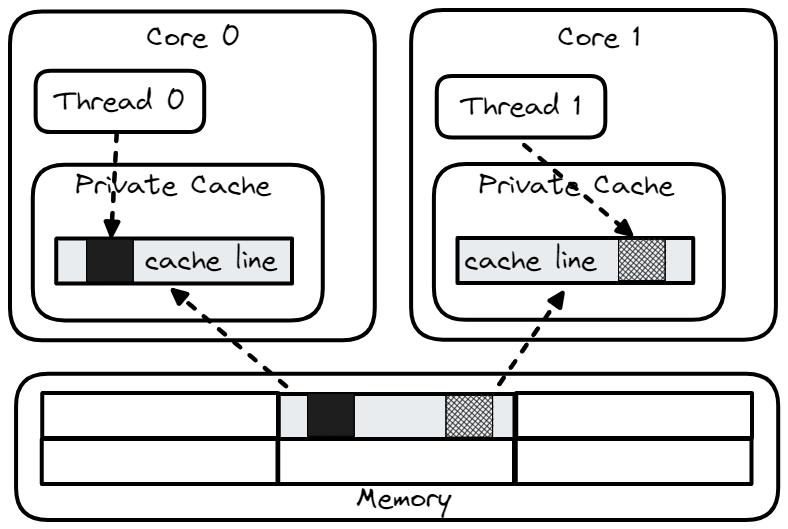
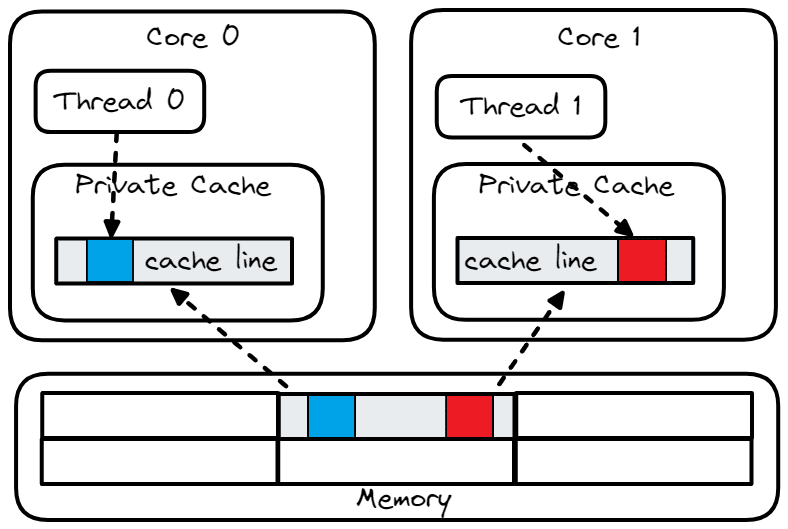
[Fixing TODOs] part6

diff --git a/chapters/15-Epilog/15-0 Epilog.md b/chapters/15-Epilog/15-0 Epilog.md
@@ -4,13 +4,13 @@
 
 Thanks for reading through the whole book. I hope you enjoyed it and found it useful. I would be even happier if the book would help you solve a real-world problem. In such a case, I would consider it a success and proof that my efforts were not wasted. Before you continue with your endeavors, let me briefly highlight the essential points of the book and give you final recommendations:
 
-[TODO][FIX_BEFORE_REVIEW]: update from chapter 1
-
-* HW performance is not increasing as rapidly as it used to a few decades ago. Performance tuning is becoming more critical than it has been for the last 40 years. It will be one of the key drivers for performance gains in the near future. 
-* Software doesn't have optimal performance by default. Certain limitations exist that prevent applications from reaching their full performance potential. Both HW and SW components have such limitations.
+* Single-threaded CPU performance is not increasing as rapidly as it used to a few decades ago. When it's no longer the case that each HW generation provides a significant performance boost, developers should start optimizing the code of their software.
+* Modern software is massively inefficient. There are big optimization opportunities to reduce carbon emissions and make better user experience. People absolutely hate using slow software, especially when their productivity goes down because of it. Not all fast software is world-class, but all world-class software is fast. Performance is _the_ killer feature.
+* For many years performance engineering was a nerdy niche. But now it is mainstream as software vendors have realized the impact that their poorly optimized software has on their bottom line. Performance tuning is more critical than it has been for the last 40 years. It will be one of the key drivers for performance gains in the near future.
+* The importance of low-level performance tuning should not be underestimated, even if it's just a 1% improvement. The cumulative effect of these small improvements is what makes the difference.
 * There is a famous quote by Donald Knuth: "Premature optimization is the root of all evil". But the opposite is often true as well. Postponed performance engineering work may be too late and cause as much evil as premature optimization. Do not neglect performance aspects when designing your future products. Save your project by integrating automated performance benchmarking into your CI/CD pipeline. *Measure early, measure often.*
 * Performance of modern CPUs is not deterministic and depends on many factors. Meaningful performance analysis should account for noise and use statistical methods to analyze performance measurements.
-* Knowledge of the CPU microarchitecture might become handy in understanding the results of experiments you conduct. However, don't solely rely on this knowledge when you make a specific change in your code. Your mental model can never be as accurate as the actual design of the CPU internals. Predicting the performance of a particular piece of code is nearly impossible. *Always measure!*
+* Knowledge of the CPU microarchitecture is required to reach peak performance. However, your mental model can never be as accurate as the actual microarchitecture design of a CPU. So don't solely rely on your intuition when you make a specific change in your code. Predicting the performance of a particular piece of code is nearly impossible. *Always measure!*
 * Performance engineering is hard because there are no predetermined steps you should follow, no algorithm. Engineers need to tackle problems from different angles. Know performance analysis methods and tools (both HW and SW) that are available to you. I strongly suggest embracing the TMA methodology and Roofline performance model if they are available on your platform. They will help you to steer your work in the right direction. 
 * Nowadays, there is a variety of performance analysis tools available on each platform. Spend some time to learn how to use them, what they can do, and how to interpret the results they provide.
 * When you identify the performance-limiting factor of your application, consider you are more than halfway to solving the problem. Based on my experience, the fix is often easier than finding the root cause of the problem.

diff --git a/chapters/9-Optimizing-Computations/9-1 Data Dependencies.md b/chapters/9-Optimizing-Computations/9-1 Data Dependencies.md
@@ -1,7 +1,5 @@
 ## Data Dependencies
 
-[TODO][FIX_BEFORE_REVIEW]: Watch out for dependencies through memory (store -> load -> store -> ... in the same location).
-
 When a program statement refers to the data of a preceding statement, we say that there is a *data dependency* between the two statements. Sometimes people also use the terms _dependency chain_ or *data flow dependencies*. The example we are most familiar with is shown in Figure @fig:LinkedListChasing. To access node `N+1`, we should first dereference the pointer `N->next`. For the loop on the right, this is a *recurrent* data dependency, meaning it spans multiple iterations of the loop. Basically, traversing a linked list is one very long dependency chain.
 
 ![Data dependency while traversing a linked list.](../../img/computation-opts/LinkedListChasing.png){#fig:LinkedListChasing width=80%}
@@ -110,9 +108,11 @@ To measure the impact of the change, we ran "before" and "after" versions and ob
 
 With a few additional changes, you can generalize this solution to have as many dependency chains as you want. For the M1 processor, the measurements show that having 2 dependency chains is enough to get very close to the hardware limit. Having more than 2 chains brings a negligible performance improvement. However, there is a trend that CPUs are getting wider, i.e., they become increasingly capable of running multiple dependency chains in parallel. That means future processors could benefit from having more than 2 dependency chains. As always you should measure and find the sweet spot for the platforms your code will be running on.
 
-Sometimes it's not enough just to break dependency chains. Imagine for a minute that instead of a simple RNG, you have a very complicated cryptographic algorithm that is `10,000` instructions long. So, instead of a very short 6-instruction dependency chain, we now have `10,000` instructions standing on the critical path. You immediately do the same change we did above anticipating a nice 2x speedup. Only to see a slightly better performance. What's going on?
+Sometimes it's not enough just to break dependency chains. Imagine that instead of a simple RNG, you have a very complicated cryptographic algorithm that is `10,000` instructions long. So, instead of a very short 6-instruction dependency chain, we now have `10,000` instructions standing on the critical path. You immediately do the same change we did above anticipating a nice 2x speedup. Only to see a slightly better performance. What's going on?
 
 The problem here is that the CPU simply cannot "see" the second dependency chain to start executing it. Recall from Chapter 3, that the Reservation Station (RS) capacity is not enough to see `10,000` instructions ahead as it is much smaller than that. So, the CPU will not be able to overlap the execution of two dependency chains. To fix this, we need to *interleave* those two dependency chains. With this approach, you need to change the code so that the RNG object will generate two numbers simultaneously, with *every* statement within the function `XorShift32::gen` duplicated and interleaved. Even if a compiler inlines all the code and can clearly see both chains, it doesn't automatically interleave them, so you need to watch out for this. Another limitation you may hit while doing this is register pressure. Running multiple dependency chains in parallel requires keeping more state and thus more registers. If you run out of registers, the compiler will start spilling them to the stack, which will slow down the program.
+
+It is worth to mention that data dependencies can also be created through memory. For example, if you write to memory location `M` on loop iteration `N` and read from this location on iteration `N+1`, there will be effectively a dependency chain. The stored value may be forwarded to a load, but they cannot be reordered and executed in parallel.
 
 As a closing thought, we would like to emphasize the importance of finding that critical dependency chain. It is not always easy, but it is crucial to know what stands on the critical path in your loop, function, or other block of code. Otherwise, you may find yourself fixing secondary issues that barely make a difference.
 

diff --git a/chapters/9-Optimizing-Computations/9-3 Loop Optimizations.md b/chapters/9-Optimizing-Computations/9-3 Loop Optimizations.md
@@ -39,12 +39,9 @@ for (int i = 0; i < N; ++i)             for (; i+1 < N; i+=2) {
                                           a[i] = b[i] * c[i];
 ~~~~~~~~~~~~~~~~~~~~~~~~~~~~~~~~~~~~~~~~~~~~~~~~~
 
-The primary benefit of loop unrolling is to perform more computations per iteration. At the end of each iteration, the index value must be incremented, and tested, and the control is branched back to the top of the loop if it has more iterations to process. This work is commonly referred to as "loop overhead" or "loop tax", and it can be reduced. For example, by unrolling the loop in [@lst:Unrol] by a factor of 2, we reduce the number of executed compare and branch instructions by half.
+The primary benefit of loop unrolling is to perform more computations per iteration. At the end of each iteration, the index value must be incremented and tested, then we go back to the top of the loop if it has more iterations to process. This work is commonly referred to as "loop overhead" or "loop tax", and it can be reduced with loop unrolling. For example, by unrolling the loop in [@lst:Unrol] by a factor of 2, we reduce the number of executed compare and branch instructions by half.
 
-[TODO][FIX_BEFORE_REVIEW]: describe loop remainder
-[TODO][FIX_BEFORE_REVIEW]: unrolling too much could have negative consequences due to code bloat
-
-Loop unrolling is a well-known optimization; still, many people are confused about it and try to unroll loops manually. We suggest that developers should not unroll any loop by hand except in cases when you need to break loop-carry dependencies as in [@lst:DepChain]. First, because compilers are very good at doing this and usually do loop unrolling quite optimally. The second reason is that processors have an "embedded unroller" thanks to their out-of-order speculative execution engine (see [@sec:uarch]). While the processor is waiting for long-latency instructions from the first iteration to finish (e.g. loads, divisions, microcoded instructions, long dependency chains), it will speculatively start executing instructions from the second iteration and only wait on loop-carried dependencies. This spans multiple iterations ahead, effectively unrolling the loop in the instruction Reorder Buffer (ROB).
+Loop unrolling is a well-known optimization; still, many people are confused about it and try to unroll loops manually. We suggest that developers should not unroll any loop by hand except in cases when you need to break loop-carry dependencies as in [@lst:DepChain]. First, because compilers are very good at doing this and usually are able to choose optimal unrolling factor. The second reason is that processors have an "embedded unroller" thanks to their out-of-order speculative execution engine (see [@sec:uarch]). While the processor is waiting for long-latency instructions from the first iteration to finish (e.g. loads, divisions, microcoded instructions, long dependency chains), it will speculatively start executing instructions from the second iteration and only wait on loop-carried dependencies. This spans multiple iterations ahead, effectively unrolling the loop in the instruction Reorder Buffer (ROB). The third reason is that unrolling too much could lead to negative consequences due to code bloat.
 
 **Loop Strength Reduction (LSR)**: replace expensive instructions with cheaper ones. Such transformation can be applied to all expressions that use an induction variable. Strength reduction is often applied to array indexing. Compilers perform LSR by analyzing how the value of a variable evolves across the loop iterations. In LLVM, it is known as Scalar Evolution (SCEV). In [@lst:LSR], it is relatively easy for a compiler to prove that the memory location `b[i*10]` is a linear function of the loop iteration number `i`, thus it can replace the expensive multiplication with a cheaper addition.
 

diff --git a/chapters/1-Introduction/1-5 What is performance tuning.md b/chapters/1-Introduction/1-5 What is performance tuning.md
@@ -12,6 +12,6 @@ Having a good understanding of the underlying HW is a requirement for making low
 
 > "During the post-Moore era, it will become ever more important to make code run fast and, in particular, to tailor it to the hardware on which it runs." [@Leisersoneaam9744]
 
-There is a famous quote: "Premature optimization is the root of all evil". But the opposite is often true as well. Postponed performance engineering work may be too late and cause as much evil as premature optimization. For developers working with performance-critical projects, it is crucial to know how underlying HW works. In such industries, it is a failure from the start when a program is being developed without HW focus. ClickHouse DB is an example of a successful software product that was built around a small but very efficient kernel. Performance characteristics of software must be a first-class citizen along with correctness and security starting from day 1. Poor performance can kill a product just as easily as security vulnerabilities.
+There is a famous quote by Donald Knuth: "Premature optimization is the root of all evil". But the opposite is often true as well. Postponed performance engineering work may be too late and cause as much evil as premature optimization. For developers working with performance-critical projects, it is crucial to know how underlying HW works. In such industries, it is a failure from the start when a program is being developed without HW focus. ClickHouse DB is an example of a successful software product that was built around a small but very efficient kernel. Performance characteristics of software must be a first-class citizen along with correctness and security starting from day 1. Poor performance can kill a product just as easily as security vulnerabilities.
 
 Performance engineering is important and rewarding work, but it may be very time-consuming. In fact, performance optimization is a never-ending game. There will always be something to optimize. Inevitably, the developer will reach the point of diminishing returns at which further improvement comes at a very high engineering cost and likely will not be worth the effort. Knowing when to stop optimizing is a critical aspect of performance work. 

diff --git a/chapters/10-Optimizing-Branch-Prediction/10-4 Questions-Exercises.md b/chapters/10-Optimizing-Branch-Prediction/10-4 Questions-Exercises.md
@@ -8,7 +8,8 @@
 2. Run the application that you're working with on a daily basis. Collect the TMA breakdown and check the `BadSpeculation` metric. Look at the code that is attributed with the most number of branch mispredictions. Is there a way to avoid branches using techniques we discussed in this chapter?
 
 **Coding exercise**: write a microbenchmark that will experience 50% misprediction rate or get as close as possible. Your goal is to write a code in which half of all branch instructions are mispredicted. That is not as simple as you may think. Some hints and ideas:
-- Branch misprediction rate is measured as `BR_MISP_RETIRED.ALL_BRANCHES / BR_INST_RETIRED.ALL_BRANCHES`.
-- If you're coding in C++, you can use 1) google benchmark similar to perf-ninja, or 2) write a regular console program and collect CPU counters with Linux `perf`, or 3) integrate libpfm into the microbenchmark (see [@sec:MarkerAPI]).
-- There is no need to invent some complicated algorithm. A simple approach would be to generate a pseudo-random number in the range `[0;100)` and check if it is less than 50. Random numbers can be pregenerated ahead of time.
-- Keep in mind that modern CPUs can remember long (but still limited) sequences of branch outcomes.
+
+* Branch misprediction rate is measured as `BR_MISP_RETIRED.ALL_BRANCHES / BR_INST_RETIRED.ALL_BRANCHES`.
+* If you're coding in C++, you can use 1) google benchmark similar to perf-ninja, or 2) write a regular console program and collect CPU counters with Linux `perf`, or 3) integrate libpfm into the microbenchmark (see [@sec:MarkerAPI]).
+* There is no need to invent some complicated algorithm. A simple approach would be to generate a pseudo-random number in the range `[0;100)` and check if it is less than 50. Random numbers can be pregenerated ahead of time.
+* Keep in mind that modern CPUs can remember long (but still limited) sequences of branch outcomes.

diff --git a/chapters/8-Optimizing-Memory-Accesses/8-0 Source Code Tuning For CPU.md b/chapters/8-Optimizing-Memory-Accesses/8-0 Source Code Tuning For CPU.md
@@ -72,6 +72,6 @@ The next four chapters are organized according to the TMA classification (see [@
 
 The idea behind this classification is to offer a checklist for developers when they are using TMA methodology in their performance engineering work. Whenever TMA attributes a performance bottleneck to one of the categories mentioned above, feel free to consult one of the corresponding chapters to learn about your options.
 
-[TODO][FIX_BEFORE_REVIEW]: update with preview of other chapter
+[@sec:ChapterOtherTuning] coves optimization topics not specifically related to any of the categories covered in the previous four chapters. In this chapter, we will discuss CPU-specific optimizations, examine several microarchitecture-related performance problems, explore techniques used for optimizing low-latency applications, and give you advice on tuning your system for the best performance.
 
-[@sec:ChapterOtherTuning] covers other optimization areas that do not belong to any of the categories above. [@sec:secOptMTApps] addresses some common problems in optimizing multithreaded applications.
+[@sec:secOptMTApps] addresses some common problems in optimizing multithreaded applications. It provides a case study of five real-world multithreaded applications, where we explain why their performance doesn't scale with the increasing number of CPU threads. We also discuss cache coherency issues, such as "False Sharing" and a few tools that are designed to analyze multithreaded applications.

diff --git a/chapters/13-Optimizing-Multithreaded-Applications/13-6 Cache Coherence Issues.md b/chapters/13-Optimizing-Multithreaded-Applications/13-6 Cache Coherence Issues.md
@@ -54,8 +54,6 @@ S s;
 }                                  │     }
 ~~~~~~~~~~~~~~~~~~~~~~~~~~~~~~~~~~~~~~~~~~~~~~~~~
 
-[TODO][FIX_BEFORE_REVIEW]: Make this image with colors
-
 ![False Sharing: two threads access the same cache line.](../../img/mt-perf/FalseSharing.jpg){#fig:FalseSharing width=60%}
 
 False sharing is a frequent source of performance issues for multithreaded applications. Because of that, modern analysis tools have built-in support for detecting such cases. TMA characterizes applications that experience true/false sharing as `Memory Bound`. Typically, in such cases, you would see a high value for the `Contested Accesses` metric.[^18]

diff --git a/chapters/18-Appendix/Appendix-D.md b/chapters/18-Appendix/Appendix-D.md
@@ -1,6 +1,6 @@
 # Appendix D. Intel Processor Traces {.unnumbered}
 
-\markright{Appendix C}
+\markright{Appendix D}
 
 The Intel Processor Traces (PT) is a CPU feature that records the program execution by encoding packets in a highly compressed binary format that can be used to reconstruct execution flow with a timestamp on every instruction. PT has extensive coverage and relatively small overhead,[^1] which is usually below `5%`. Its main usages are postmortem analysis and root-causing performance glitches.
 

diff --git a/chapters/18-Appendix/Appendix-C.md b/chapters/18-Appendix/Appendix-C.md
@@ -11,8 +11,6 @@ To utilize huge pages on Windows, one needs to enable `SeLockMemoryPrivilege` [s
 1. Hit start -> search "secpol.msc", launch it.
 2. On the left select "Local Policies" -> "User Rights Assignment", then double-click on "Lock pages in memory".
 
-[TODO][FIX_BEFORE_REVIEW]: This image is too blurry. Redo.
-
 ![Windows security: Lock pages in memory](../../img/appendix-C/WinLockPages.png){width=100%}
 
 3. Add your user and reboot the machine.

diff --git a/chapters/15-Epilog/15-1 Acknowledgements.md b/chapters/15-Epilog/15-1 Acknowledgements.md
@@ -1,5 +1,7 @@
 # Acknowledgments {.unnumbered}
 
+\markright{Acknowledgments}
+
 I write this section with profound gratitude to all the people mentioned below. I feel very humble to deliver to you all the knowledge these people have.
 
 \vspace{-1cm} \hfill \break \vspace{0.5cm}
